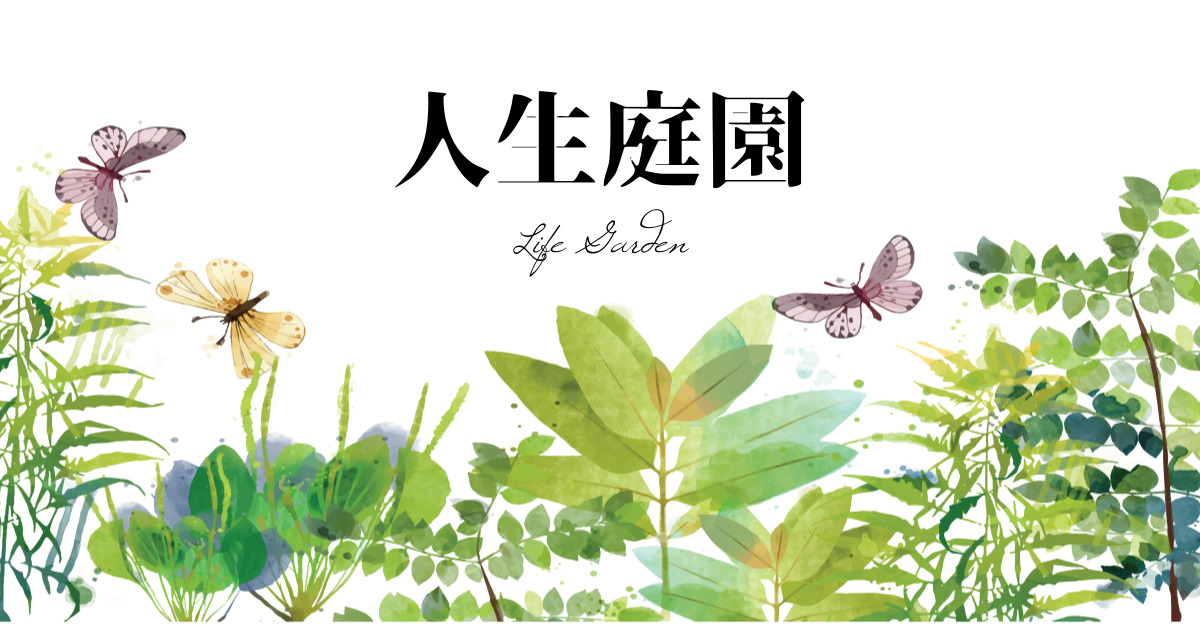
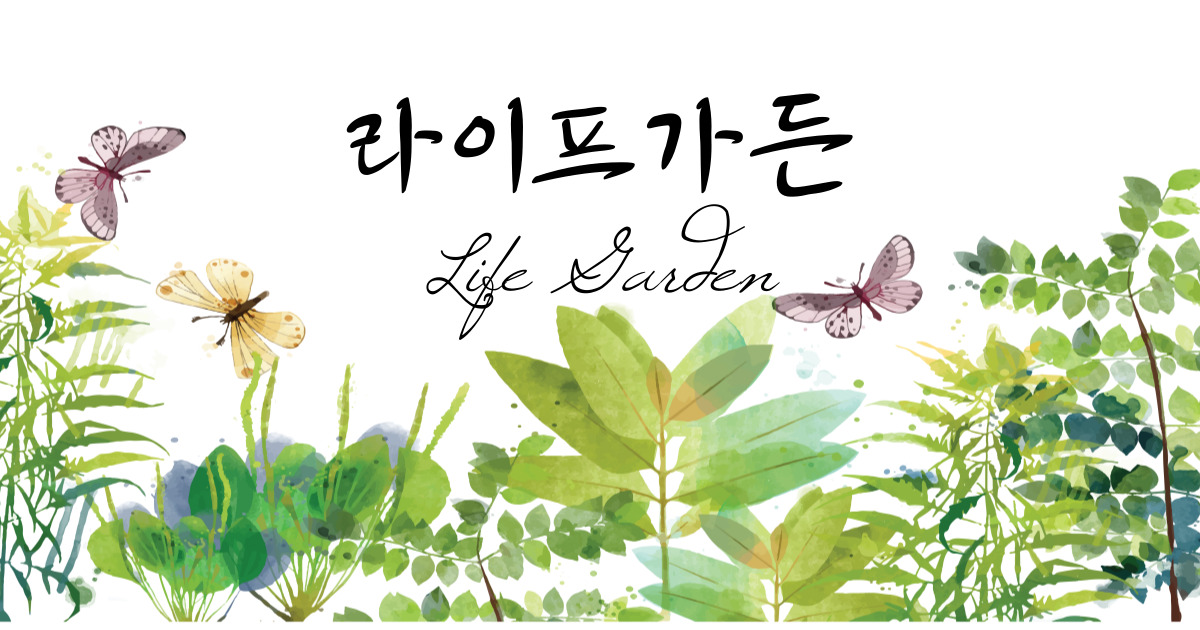
🔤 Replace Chinese characters with Korean in header
- Change header title from 生命花園 (Chinese) to 라이프가든 (Korean)
- Maintain consistent Korean branding across the site

🤖 Generated with [Claude Code](https://claude.ai/code)

Changed region(s): [[0.2775, 0.1206, 0.7092, 0.5429]]

diff --git a/components/RetroHeader.tsx b/components/RetroHeader.tsx
@@ -15,7 +15,7 @@ export default function RetroHeader() {
                 fontFamily: 'Gungsuh, 궁서, GungsuhChe, 궁서체, Batang, 바탕, Georgia, serif',
                 lineHeight: '1'
               }}>
-                生命庭園
+                라이프가든
               </div>
               <div style={{
                 fontSize: '12px',
